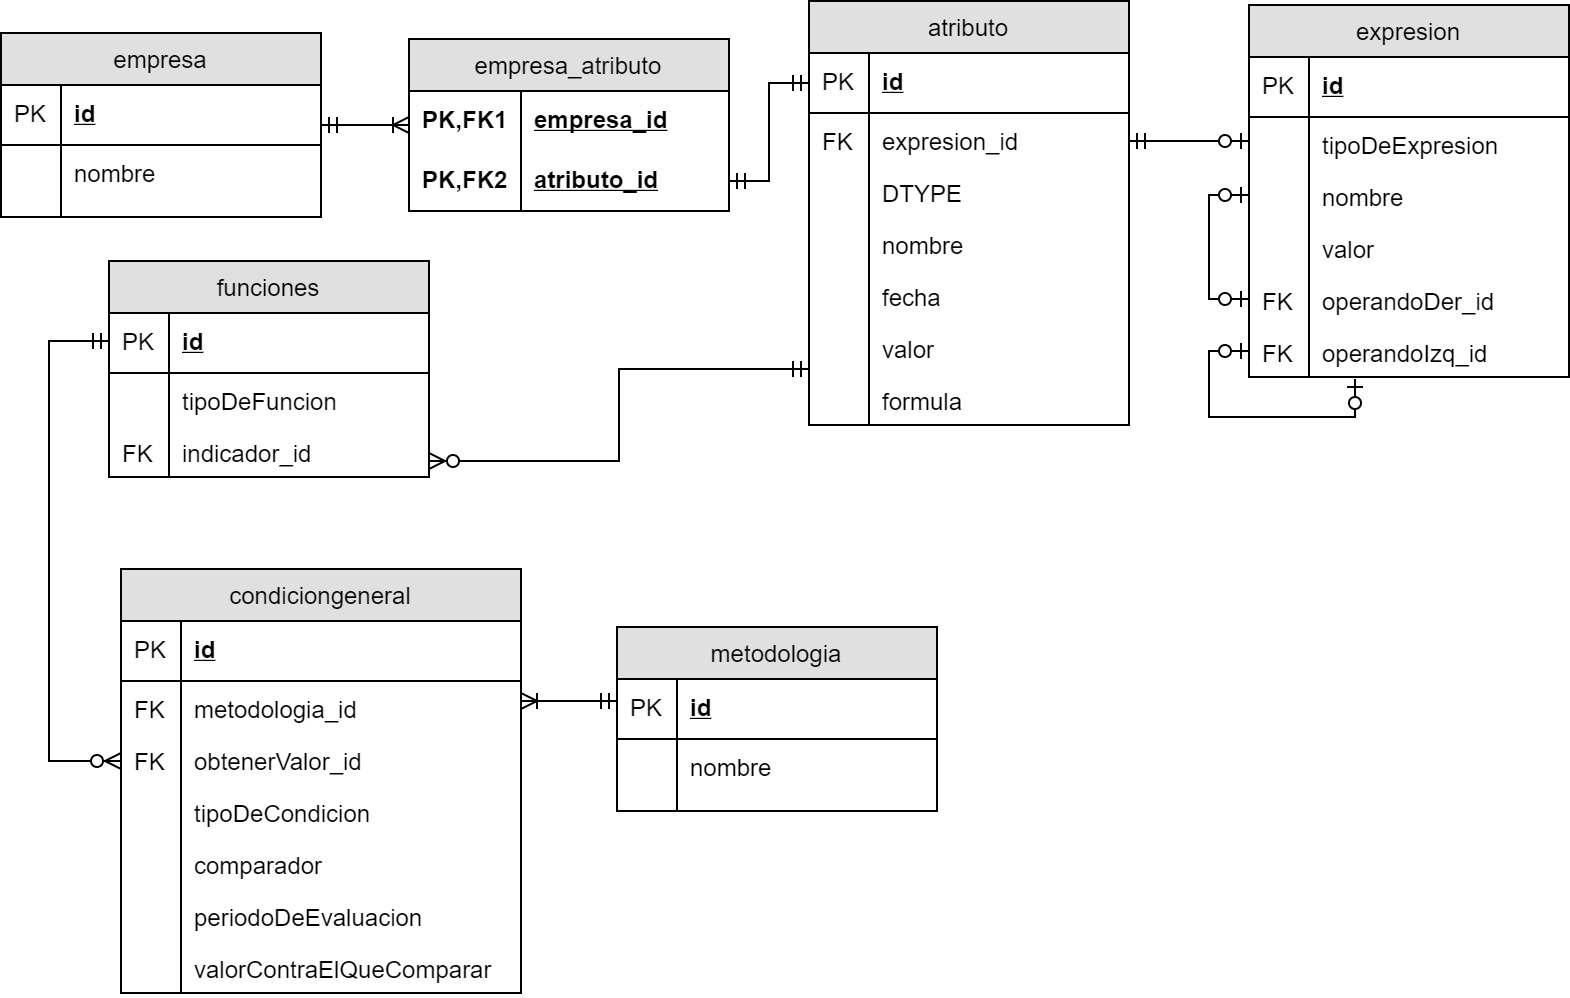
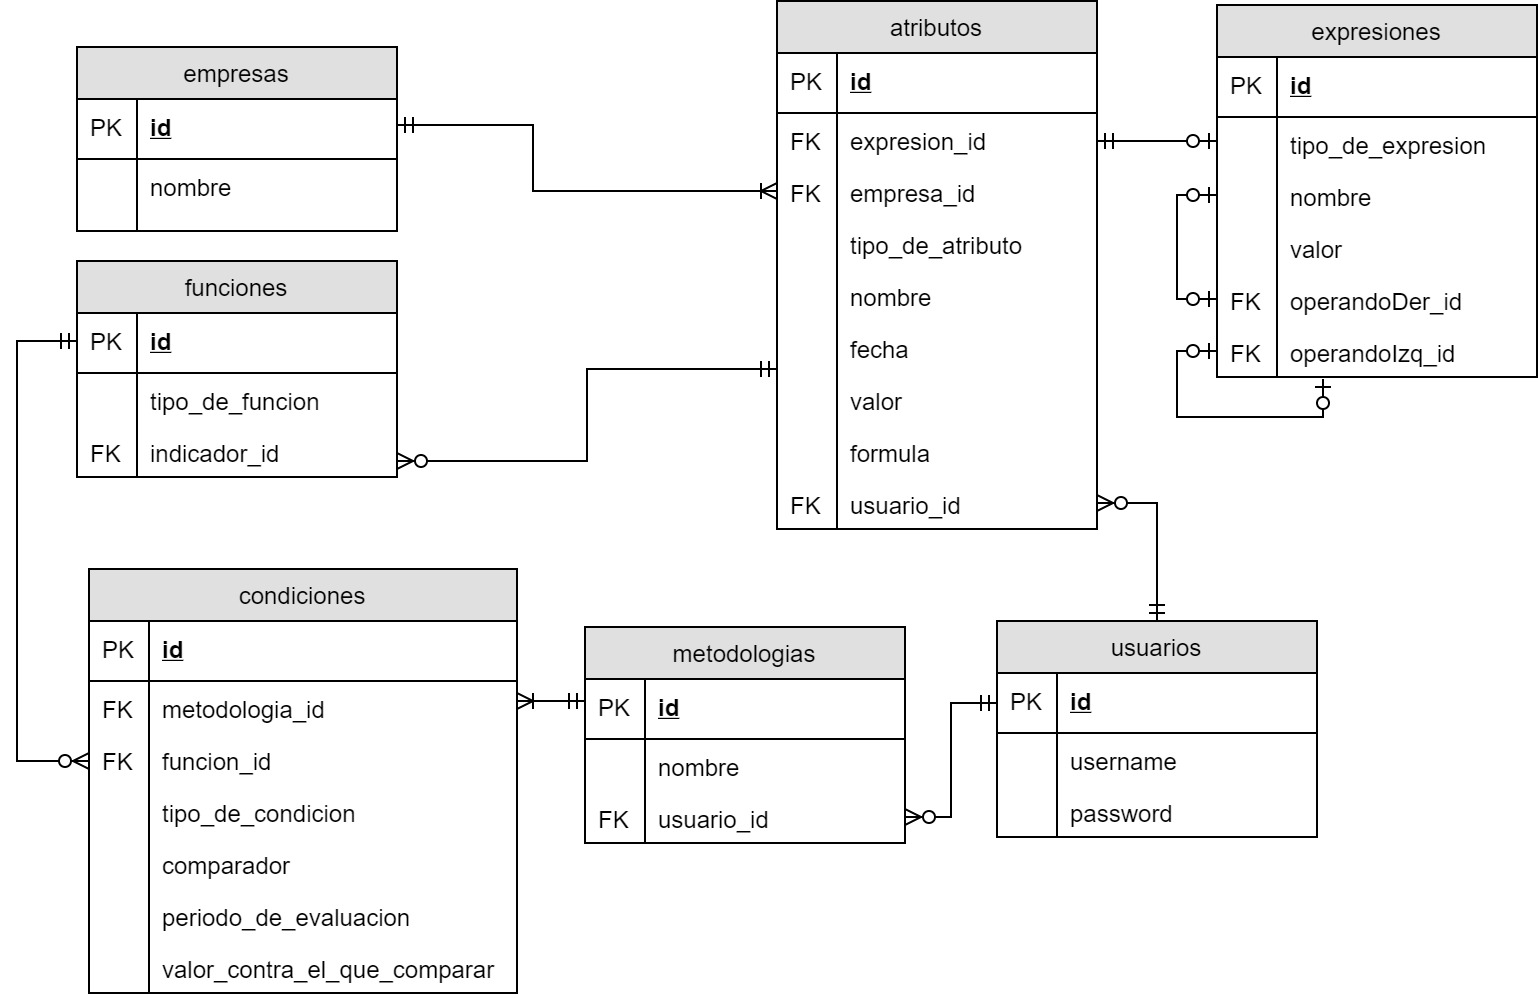
cambios para mostrar correctamente las metodologias y filtrado por usuario. Cambio para poder agregar sin error indicadores

diff --git a/src/main/java/controllers/MetodologiasController.java b/src/main/java/controllers/MetodologiasController.java
@@ -23,10 +23,11 @@ public class MetodologiasController implements WithGlobalEntityManager{
 	
     public ModelAndView listar(Request request, Response response) {
         List<Metodologia> metodologias;
+        Usuario usuario = entityManager().find(Usuario.class, Long.valueOf(request.cookie("userId")));
 
         String filtroNombre = request.queryParams("filtroNombre");
         if (Objects.isNull(filtroNombre) || filtroNombre.isEmpty()) {
-            metodologias = repositorioDeMetodologias.buscarTodos();
+            metodologias = repositorioDeMetodologias.buscarTodosPorUsuario(usuario);//.buscarTodos();
         } else {
             //empresas = Arrays.asList(repositorioDeEmpresas.buscarEmpresa(filtroNombre));
             metodologias = repositorioDeMetodologias.buscarTodosPorNombre(filtroNombre);
@@ -43,8 +44,8 @@ public class MetodologiasController implements WithGlobalEntityManager{
     public ModelAndView empresasDe(Request request, Response response) {
         long id = Long.parseLong(request.params(":metodologia"));
         List<Empresa> empresas;
-        
-        empresas = repositorioDeEmpresas.buscarTodos();
+        Usuario usuario = entityManager().find(Usuario.class, Long.valueOf(request.cookie("userId")));
+        empresas = repositorioDeEmpresas.buscarTodosPorUsuario(usuario);//.buscarTodos();
         
         Metodologia metodologia = repositorioDeMetodologias.buscarPorId(id);
         //Usuario usuario = entityManager().find(Usuario.class, Long.valueOf(request.cookie("userId")));

diff --git a/src/main/java/controllers/EmpresasController.java b/src/main/java/controllers/EmpresasController.java
@@ -1,16 +1,27 @@
 package controllers;
 
+import java.util.Arrays;
+import java.util.HashMap;
+import java.util.List;
+import java.util.Map;
+import java.util.Objects;
+
+import javax.persistence.EntityTransaction;
+
+import org.uqbarproject.jpa.java8.extras.WithGlobalEntityManager;
+
 import model.Empresa;
+import model.Metodologia;
 import model.Usuario;
+import model.condiciones.Comparador;
+import model.condiciones.Condicion;
+import model.funciones.Longevidad;
 import model.repositories.RepositorioDeEmpresas;
 import model.repositories.RepositorioDeIndicadores;
 import spark.ModelAndView;
 import spark.Request;
 import spark.Response;
-
-import java.util.*;
-
-import org.uqbarproject.jpa.java8.extras.WithGlobalEntityManager;
+import model.CondicionBuilder;
 
 public class EmpresasController implements WithGlobalEntityManager {
 

diff --git a/src/main/java/controllers/IndicadoresController.java b/src/main/java/controllers/IndicadoresController.java
@@ -55,7 +55,7 @@ public class IndicadoresController implements WithGlobalEntityManager{
         
         Usuario usuario = entityManager().find(Usuario.class, Long.valueOf(request.cookie("userId")));
 
-        Indicador indicadorNuevo = null;
+        Indicador indicadorNuevo;// = null;
         try {
             indicadorNuevo = new Indicador(nombre, formula, usuario);
         } catch (ParseException e) {

diff --git a/src/main/java/componentesMatematicos/Operador.java b/src/main/java/componentesMatematicos/Operador.java
@@ -1,6 +1,10 @@
 package componentesMatematicos;
 
-import javax.persistence.*;
+import javax.persistence.CascadeType;
+import javax.persistence.DiscriminatorValue;
+import javax.persistence.Entity;
+import javax.persistence.FetchType;
+import javax.persistence.OneToOne;
 
 @Entity
 @DiscriminatorValue("4")

diff --git a/src/main/java/model/Metodologia.java b/src/main/java/model/Metodologia.java
@@ -70,7 +70,9 @@ public class Metodologia {
 		return nombre;
 	}
 	
-
+	public Long getId() {
+		return id;
+	}
 	
 	/*
 	private List<Empresa> aplicarCondicionesTaxativas(List<Empresa> empresas, BaseDeDatos baseDeDatos) {
